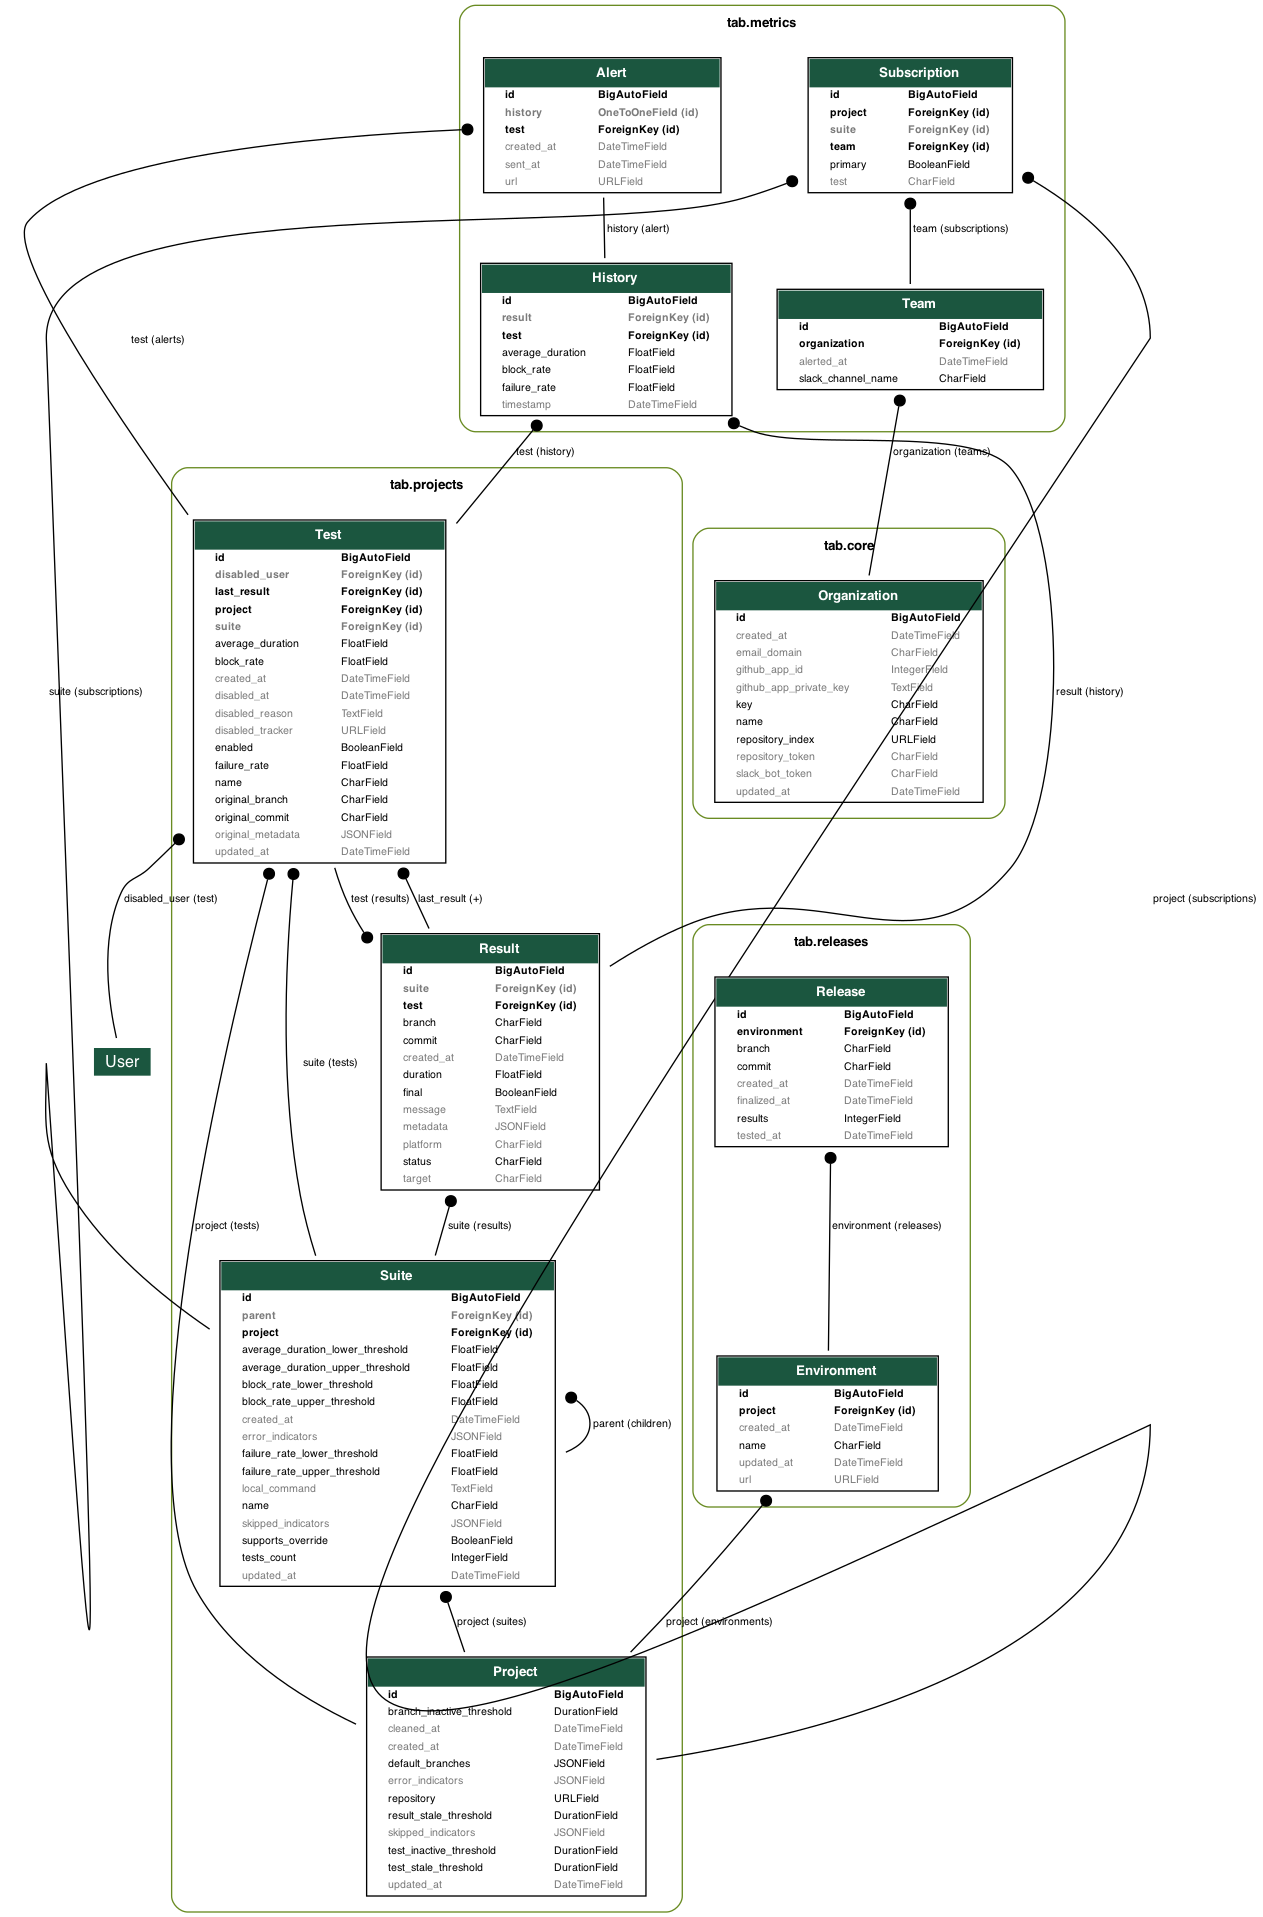
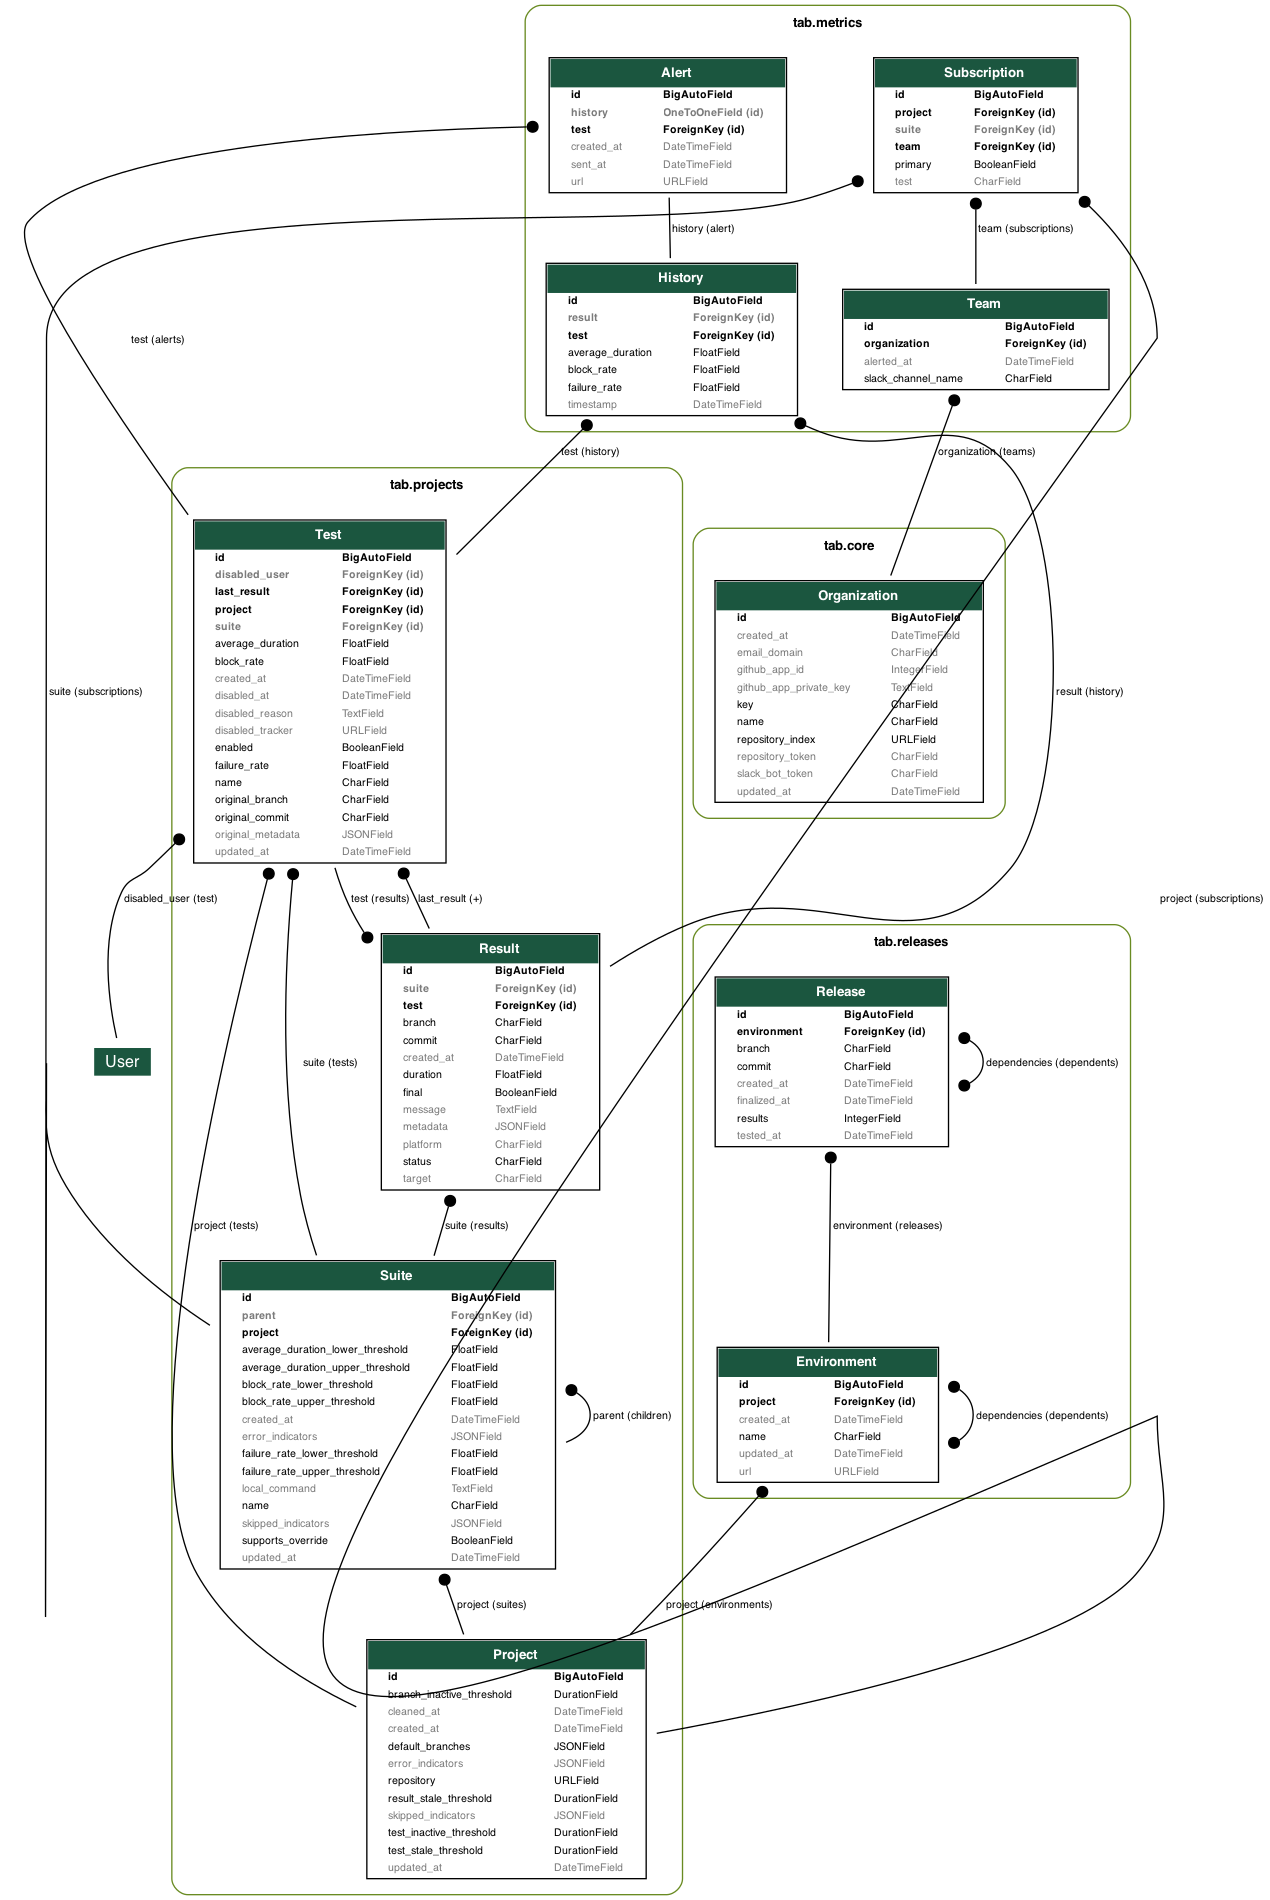
Track pedigree to determine system health (#244)

diff --git a/tab/releases/admin.py b/tab/releases/admin.py
@@ -47,6 +47,7 @@ class ReleaseAdmin(admin.ModelAdmin):
         "_branch",
         "_commit",
         "created_at",
+        "_dependencies",
         "tested_at",
         "results",
         "finalized_at",
@@ -70,6 +71,12 @@ class ReleaseAdmin(admin.ModelAdmin):
         return mark_safe(
             f'<a href="{release.commit_url}" target="_blank">{release.commit_humanized}</a>'
         )
+
+    @admin.display(description="Dependencies")
+    def _dependencies(self, release: Release):
+        if dependencies := release.dependencies.all():
+            return mark_safe("<br><br>".join(str(d) for d in dependencies))
+        return "-"
 
     @admin.action(description="Finalize selected releases")
     def finalize(self, request, queryset):
@@ -98,10 +105,22 @@ class ReleaseAdmin(admin.ModelAdmin):
 
     readonly_fields = ("health",)
 
-    @admin.display(description="Project Health")
+    @admin.display(description="System Health")
     def health(self, release: Release):
-        return Result.objects.get_health(
+        health = Result.objects.get_health(
             release.environment.project,
             release.commit,
             final=release.finalized_at is not None,
         )
+
+        parts = [f"{release}: {health.description} ({health.state})"]
+
+        for dependency in release.dependencies.all():
+            health = Result.objects.get_health(
+                dependency.environment.project,
+                dependency.commit,
+                final=dependency.finalized_at is not None,
+            )
+            parts.append(f"{dependency}: {health.description} ({health.state})")
+
+        return mark_safe("<br><br>".join(parts))

diff --git a/tab/releases/models.py b/tab/releases/models.py
@@ -45,6 +45,12 @@ class Environment(models.Model):
         )
         if created:
             log.info(f"Created release: {release}")
+            for dependency in self.dependencies.all():
+                if upstream_release := Release.objects.filter(
+                    environment=dependency
+                ).first():
+                    release.dependencies.add(upstream_release)
+            release.save()
         else:
             log.info(f"Found release: {release}")
         return release
@@ -58,6 +64,10 @@ class Release(models.Model):
     branch = models.CharField(max_length=500, default="", db_index=True)
     commit = models.CharField(max_length=100, default="", db_index=True)
     results = models.IntegerField(default=0)
+
+    dependencies = models.ManyToManyField(
+        "self", blank=True, symmetrical=False, related_name="dependents", editable=False
+    )
 
     created_at = models.DateTimeField(auto_now_add=True, db_index=True)
     tested_at = models.DateTimeField(null=True, blank=True, db_index=True)

diff --git a/tab/releases/migrations/0007_release_dependencies.py b/tab/releases/migrations/0007_release_dependencies.py
@@ -1,0 +1,23 @@
+# Generated by Django 5.2.9 on 2025-12-12 20:06
+
+from django.db import migrations, models
+
+
+class Migration(migrations.Migration):
+
+    dependencies = [
+        ("releases", "0006_alter_environment_ordering"),
+    ]
+
+    operations = [
+        migrations.AddField(
+            model_name="release",
+            name="dependencies",
+            field=models.ManyToManyField(
+                blank=True,
+                editable=False,
+                related_name="dependents",
+                to="releases.release",
+            ),
+        ),
+    ]
